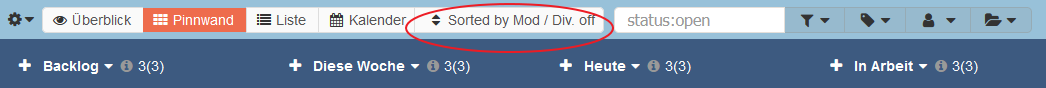
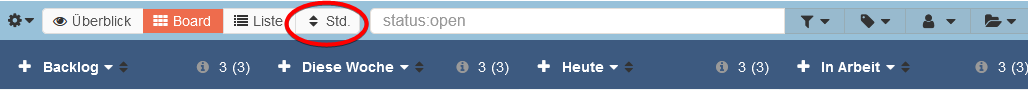
Release v1.2.1

diff --git a/Plugin.php b/Plugin.php
@@ -33,7 +33,7 @@ class Plugin extends Base
 
     public function getPluginAuthor()
     {
-        return 'David Morlitz, Fx';
+        return 'JustFxDev (Fx), David Morlitz';
     }
 
     public function getPluginVersion()

diff --git a/README.md b/README.md
@@ -1,16 +1,15 @@
-![north_west](./assets/images/north_west.svg) Use the table of contents
+![north_west](./Assets/images/north_west.svg) Use the table of contents
 
-[![version](./assets/images/version.svg)](https://github.com/JustFxDev/ThemeMaestro/releases) [![license](./assets/images/license.svg)](https://github.com/JustFxDev/ThemeMaestro/blob/main/LICENSE) [![maintainedyes](./assets/images/maintained.svg)](https://github.com/JustFxDev/ThemeMaestro/graphs/contributors)
+[![version](./Assets/images/version.svg)](https://github.com/JustFxDev/ThemeMaestro/releases) [![license](./Assets/images/license.svg)](https://github.com/JustFxDev/ThemeMaestro/blob/main/LICENSE) [![maintainedyes](./Assets/images/maintained.svg)](https://github.com/JustFxDev/ThemeMaestro/graphs/contributors)
 
 **:star: If you use it, you should star it on GitHub!** *It's the least you can do for all the work put into it!*
 
-Due Date sorting for Kanboard
-=============================
+# Due Date sorting for Kanboard
+
 
 Allows to display all columns of a board by due dates, last modification date or as they were filed on the board. With three clicks.
 
-Advantages
-----------
+## Advantages
 - Easy switching between
   - Show all tasks in all columns by due date
   - Show all tasks in all columns by last modification of a task
@@ -20,8 +19,7 @@ Advantages
 - Display in the board header what kind of sorting is currently active
 - Multilanguage Support (English and German at the moment, help wanted for more translations)
 
-Screenshots
------------
+## Screenshots
 
 ### New button at the top of the page
 
@@ -29,29 +27,24 @@ This plugin adds a new button to the top of each page in the toolbar.  The butto
 
 **NOTE:**  This setting affects every board of the current user and is stored in your user preferences.
 
-![image-20230111142015007](./assets/images/image-20230111142015007.png)
+![image-20230111142015007](./Assets/images/image-20230111142015007.png)
 
 ### Settings panel
 
 The settings panel will allow you to change the sorting order.  The current sorting method will be initially selected by default.  
 
-![image-20230111143041431](./assets/images/image-20230111143041431.png)
+![image-20230111143041431](./Assets/images/image-20230111143041431.png)
 
-Author
-------
+## Author
 
-- David Morlitz
-- Fx (since v1.2.0)
+- JustFxDev (since v1.2.0)
+- David Morlitz (until v1.2.0)
 - License MIT
 
-Requirements
-------------
-
+## Requirements
 - Kanboard >= 1.0.40
 
-Installation
-------------
-
+## Installation
 You have the choice between 3 methods:
 
 1. Install the plugin from the Kanboard plugin manager in one click

diff --git a/changelog.md b/changelog.md
@@ -5,7 +5,7 @@ _most recent changes are listed on top_
 ## v1.2.1
 
 - Shorter texts (de) for the header bar / drop down to save space
-- Jump pack to board view after save has been pressed on settings page
+- Jump back to board view after save has been pressed on settings page
 
 
 ## v1.2.0
